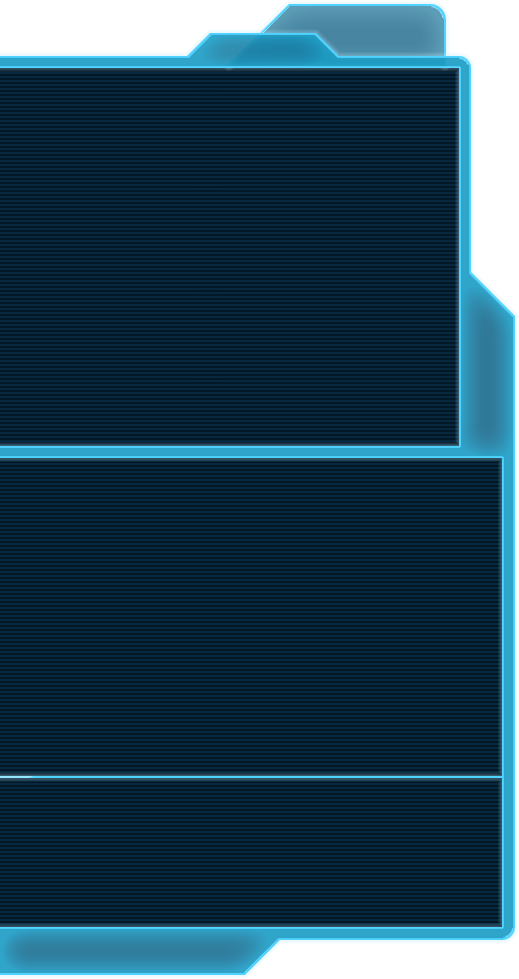
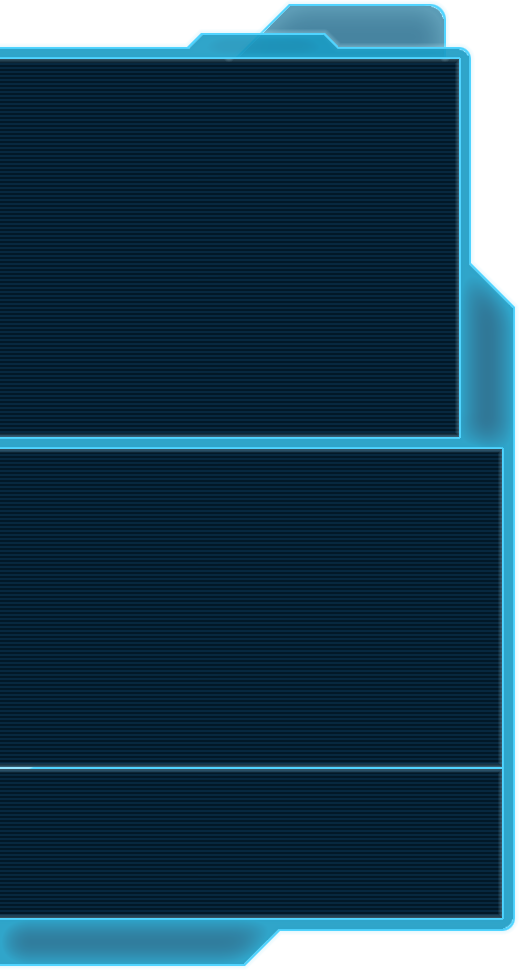
Re-added T10 stims as an optional downgrade

diff --git a/src/main/webapp/scripts/StatController.js b/src/main/webapp/scripts/StatController.js
@@ -278,6 +278,8 @@ let StatController = (function()
         let stats = this.addStats(gearStats, this.getGearlessStats());
         let pri = 264;
         let sec = 109;
+        let oldpri = 240;
+        let oldsec = 99;
         switch(Settings.getStim())
         {
             case 'blue':
@@ -296,6 +298,24 @@ let StatController = (function()
                 stats = this.addStats(stats, {
                     'mastery':pri,
                     'power':sec
+                });
+                break;
+            case 'old_blue':
+                stats = this.addStats(stats, {
+                    'endurance':oldpri,
+                    'defense':oldsec
+                });
+                break;
+            case 'old_yellow':
+                stats = this.addStats(stats, {
+                    'accuracy':oldpri,
+                    'crit':oldsec
+                });
+                break;
+            case 'old_red':
+                stats = this.addStats(stats, {
+                    'mastery':oldpri,
+                    'power':oldsec
                 });
                 break;
         }

diff --git a/src/main/webapp/styles/gearPlanner.css b/src/main/webapp/styles/gearPlanner.css
@@ -195,7 +195,7 @@ body.faction-mode-pub .faction-imp
 #itemPicker
 {
     margin-top:-30px;
-    padding:67px 30px 60px 0px;
+    padding:58px 30px 60px 0px;
 
     width:100%;
 
